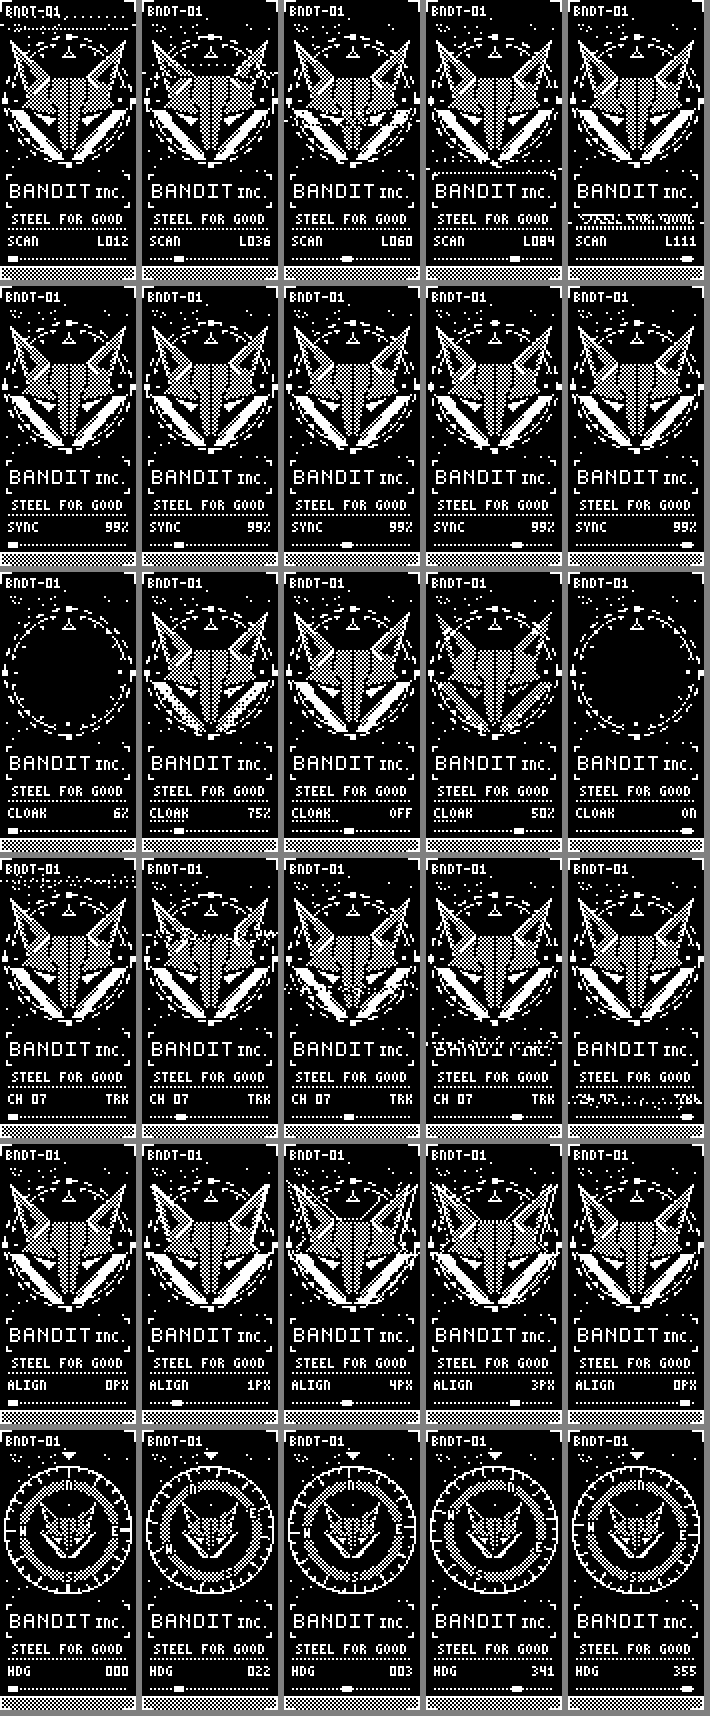
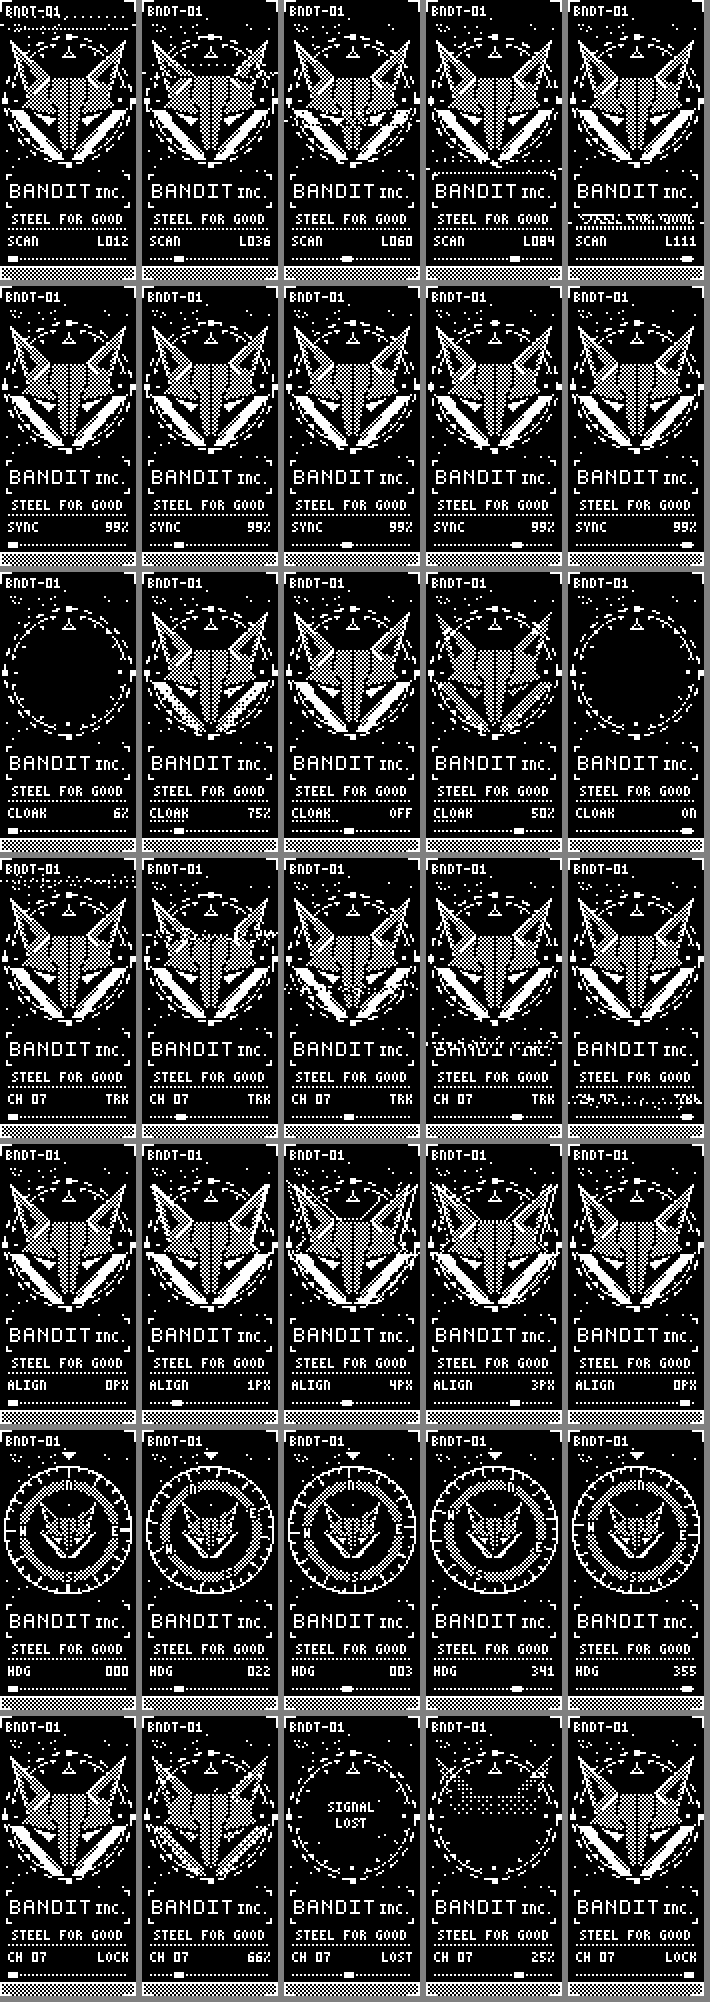
Art: Bandit_signal_v2, versioned Bandit generators, photosensitivity test
- Bandit_signal_v2 (bandit-signal-v2.bin, 64 frames at 4 fps, 9041 B) joins the
  Bandit Motion set. It tells signal's story (slip, fade behind static,
  SIGNAL LOST, SEARCHING, scan back in) with at most 3.0% of the screen changing
  per step. The original Bandit_signal is unchanged.
- tools/art-src/bandit/: bandit_art.py, motion/bandit_motion.py,
  motion/check.py and a README. Sources only; they reproduce the shipped blobs
  byte for byte (Pillow 13).
- scripts/test_bandit_art.py runs check.py on every shipped motion blob and on
  a fresh generator run (check.ps1's Python tests and the Script checks).
- Licensing rows and docs/art-bandit-motion.md updated.

diff --git a/scripts/test_bandit_art.py b/scripts/test_bandit_art.py
@@ -1,0 +1,75 @@
+"""The Bandit Motion set as it ships (app/resources/art/bandit-motion/): every blob passes the
+photosensitivity check of tools/art-src/bandit/motion/check.py and fits the push budget, and the
+generator in tools/art-src/bandit still runs and makes the same pieces."""
+
+import os
+import subprocess
+import sys
+import tempfile
+import unittest
+
+HERE = os.path.dirname(os.path.abspath(__file__))
+ROOT = os.path.dirname(HERE)
+MOTION = os.path.join(ROOT, "tools", "art-src", "bandit", "motion")
+BLOBS = os.path.join(ROOT, "app", "resources", "art", "bandit-motion")
+sys.path.insert(0, HERE)
+sys.path.insert(0, MOTION)
+import check  # noqa: E402
+import flipper_art as fa  # noqa: E402
+
+STRIDE = (fa.ART_W + 7) // 8
+
+
+def upright_frames(blob):
+    """The blob's frames in play order, upright (68 x 140) rows of booleans. Stored frames are
+    turned: upright (x, y) is stored row x, column 139 - y."""
+    unique = blob[8] | blob[9] << 8
+    count = blob[10] | blob[11] << 8
+    order = list(blob[12:12 + count])
+    at = 12 + count
+    offsets = [blob[at + 2 * i] | blob[at + 2 * i + 1] << 8 for i in range(unique)]
+    buf = bytearray(STRIDE * fa.ART_H)
+    frames = []
+    for i, start in enumerate(offsets):
+        end = offsets[i + 1] if i + 1 < len(offsets) else len(blob)
+        fa.unrle_xor(blob[start:end], buf)
+        frames.append([[bool(buf[x * STRIDE + (139 - y) // 8] & (0x80 >> ((139 - y) % 8)))
+                        for x in range(check.W)] for y in range(check.H)])
+    return [frames[i] for i in order]
+
+
+def blobs():
+    for name in sorted(os.listdir(BLOBS)):
+        with open(os.path.join(BLOBS, name), "rb") as f:
+            yield name, f.read()
+
+
+class ShippedMotionSet(unittest.TestCase):
+    def test_every_piece_passes_the_photosensitivity_check(self):
+        for name, blob in blobs():
+            with self.subTest(name):
+                self.assertEqual(blob[:4], b"NVA1")
+                self.assertTrue(blob[7] & fa.FLAG_INK)
+                worst, blocks = check.steps(upright_frames(blob))
+                self.assertTrue(check.passes(worst, blocks), "%s: %d px, %d blocks" % (name, worst, blocks))
+
+    def test_every_piece_fits_the_budget(self):
+        for name, blob in blobs():
+            self.assertLessEqual(len(blob), 12 * 1024, name)
+
+
+class Generator(unittest.TestCase):
+    def test_it_makes_every_shipped_piece(self):
+        with tempfile.TemporaryDirectory() as d:
+            subprocess.run([sys.executable, "-I", os.path.join(MOTION, "bandit_motion.py"), d],
+                           check=True)
+            made = {n.split("_", 1)[1].replace("_", "-") for n in os.listdir(d)}
+            shipped = {n[len("bandit-"):-len(".bin")] for n, _ in blobs()}
+            self.assertEqual(made, shipped)
+            for n in os.listdir(d):
+                seq, _ = check.frames(d, n)
+                self.assertTrue(check.passes(*check.steps(seq)), n)
+
+
+if __name__ == "__main__":
+    unittest.main()

diff --git a/app/src/foxglove/art_pieces.rs b/app/src/foxglove/art_pieces.rs
@@ -19,7 +19,7 @@ use super::art_words::{showing, Badge, Showing};
 
 /// Sets that ship with the app: the lighting presets' art (#273), the plugins' (#238, #259) and
 /// the Bandit Motion set (movement and distortion styles of the Bandit emblem, made by
-/// `art-src/bandit/motion/bandit_motion.py`). The flag marks plugin art.
+/// `tools/art-src/bandit/motion/bandit_motion.py`). The flag marks plugin art.
 pub const BUNDLED: &[(&str, &[u8], bool)] = &[
     (
         "fury.bin",
@@ -79,6 +79,11 @@ pub const BUNDLED: &[(&str, &[u8], bool)] = &[
     (
         "bandit-compass.bin",
         include_bytes!("../../resources/art/bandit-motion/bandit-compass.bin"),
+        false,
+    ),
+    (
+        "bandit-signal-v2.bin",
+        include_bytes!("../../resources/art/bandit-motion/bandit-signal-v2.bin"),
         false,
     ),
 ];

diff --git a/docs/art-licensing.md b/docs/art-licensing.md
@@ -25,12 +25,12 @@ Local sources live in `C:\Users\fuchs\splitkeeb\art-src` (not in any repo) unles
 | nice-view-elemental | `untrusted/kevinpastor_nice-view-elemental` | [kevinpastor/nice-view-elemental](https://github.com/kevinpastor/nice-view-elemental) | MIT | Kevin Pastor | OK to ship (not used) | Background images and fonts. Check the font licences before reusing those (the fonts are bundled from elsewhere). |
 | zmk-nice-oled: Pokémon art | `untrusted/mctechnology17_zmk-nice-oled` (`assets/pokemon*.c`) | [mctechnology17/zmk-nice-oled](https://github.com/mctechnology17/zmk-nice-oled) | Repo MIT, but the characters are Nintendo / Game Freak IP | n/a | **DO NOT SHIP** | A repo's MIT licence can't license someone else's trademarked characters. |
 | zmk-nice-oled: other art (spaceman, samurai, head, crystal, luna) | same | same | MIT (repo); origin of each image not stated | mctechnology17 | **UNCLEAR** (not used) | Each piece's origin would need checking. The "crystal" looks like nice-view-gem's. Luna is the QMK "Luna" pet, whose origin is also unstated. |
-| Bandit fox motif and the Bandit HUD library | `art-src/bandit`; `BanditF/bandit-wallpapers` `library/bandit` | the repo owner | © the owner, all rights reserved | the owner | **OK to ship** (owner's; Bandit_Emblem is the one firmware built-in since #671, the 13 scenes were built-ins from 2026-10-23 until then) | See F5. |
+| Bandit fox motif and the Bandit HUD library | `art-src/bandit` (generators versioned in `tools/art-src/bandit/`); `BanditF/bandit-wallpapers` `library/bandit` | the repo owner | © the owner, all rights reserved | the owner | **OK to ship** (owner's; Bandit_Emblem is the one firmware built-in since #671, the 13 scenes were built-ins from 2026-10-23 until then) | See F5. |
 | FURY linocut prints | `BanditF/bandit-wallpapers` `input_media/FURY prints` (private repo) | the repo owner | © the owner, all rights reserved | the owner | **OK to ship** (owner's) | Traced vector and keyboard derivatives live in the private wallpaper repo. See flag F5. |
 | Wallpaper keyboard art (12 sets) | `BanditF/bandit-wallpapers` → `dist/keyboard/<name>/right.bin` | generated from the two sources above | owner's own work | the owner | **OK to ship** (owner's) | Mostly the owner's art, plus procedural scenes made in this project. |
 | Plugin icons and the Plugins-tab empty state | `app/resources/plugins/` (generator `scripts/plugin_icons.py`) | drawn in this project from the Bandit fox motif | © the owner, all rights reserved | the owner | **OK to ship** (owner's) | Generic glyphs, no vendor logos: see [plugin-icons.md](plugin-icons.md) and F5. |
 | Plugin screen assets (Pomodoro, mic-mute, Broadcast Status panels; Bandit_Focus and Bandit_OnAir right art) | `assets/plugins/` (generator `scripts/plugin_panels.py`; right art from `art-src/bandit`) | drawn in this project in the Bandit style | © the owner, all rights reserved | the owner | **OK to ship** (owner's) | Not covered by the plugin crates' MIT licence: see [plugin-screens.md](plugin-screens.md) and F5. |
-| Bandit Motion set (Scanline, Glitch, Cloak, Drift, Ghost, Compass right art) | `app/resources/art/bandit-motion/` (generator `art-src/bandit/motion/bandit_motion.py`, not in this repo) | the owner's Bandit fox motif, animated in this project | © the owner, all rights reserved | the owner | **OK to ship** (owner's) | See [art-bandit-motion.md](art-bandit-motion.md) and F5. |
+| Bandit Motion set (Scanline, Glitch, Cloak, Drift, Ghost, Compass, Signal v2 right art) | `app/resources/art/bandit-motion/` (generator `tools/art-src/bandit/motion/bandit_motion.py`) | the owner's Bandit fox motif, animated in this project | © the owner, all rights reserved | the owner | **OK to ship** (owner's) | See [art-bandit-motion.md](art-bandit-motion.md) and F5. |
 | Lighting preset art (Fury, Constellations, Hearth, Moon Garden sets) | `app/resources/lighting/art/` (copied by `scripts/lighting_presets.py` from bandit-wallpapers' keyboard builds) | the owner's FURY and Hearth wallpaper art | © the owner, all rights reserved | the owner | **OK to ship** (owner's) | See [lighting-presets.md](lighting-presets.md) and F5. |
 
 ## Flags

diff --git a/docs/art-bandit-motion.md b/docs/art-bandit-motion.md
@@ -1,11 +1,11 @@
 # Bandit Motion: right-screen art set
 
-Six bundled right-screen pieces that add movement and distortion styles to the Bandit emblem
+Seven bundled right-screen pieces that add movement and distortion styles to the Bandit emblem
 (the fox in the HUD ring, "BANDIT INC.", "STEEL FOR GOOD"). They extend the library. Nothing
 existing changes: `Bandit_Emblem` stays the firmware's one built-in, and the first Bandit scenes
-stay as they are. The pieces ship in `app/resources/art/bandit-motion/` and appear on the
-Screens page as bundled sets (`art_pieces::BUNDLED`). They are pushed or kept like any library
-piece.
+(`Bandit_signal` included) stay as they are. The pieces ship in
+`app/resources/art/bandit-motion/` and appear on the Screens page as bundled sets
+(`art_pieces::BUNDLED`). They are pushed or kept like any library piece.
 
 ![Five sampled frames of each piece](images/bandit-motion-overview.png)
 
@@ -17,13 +17,20 @@ piece.
 | `bandit-drift.bin` | a 7-row band of weak signal drifts down: rows lean 2 px, with sparse static and a dotted carrier line | 38 | 4 | 9.7 KiB |
 | `bandit-ghost.bin` | "chromatic" misregistration in 1-bit: a solid and a dotted outline ghost of the fox slide up to 4 px apart and back | 24 | 4 | 4.1 KiB |
 | `bandit-compass.bin` | a compass bezel with N/E/S/W and degree ticks swings around a smaller fox; HDG readout | 32 | 4 | 11.1 KiB |
+| `bandit-signal-v2.bin` | `Bandit_signal`'s story without its hard cuts: the link slips, the fox fades out behind drifting static, SIGNAL LOST, SEARCHING with climbing bars, then the fox scans back in | 64 | 4 | 8.8 KiB |
+
+`Bandit_signal_v2` sits in this set rather than with the original. It is built from this set's
+fade, scan-in and static helpers. The first library's generator also stays frozen, so its
+scenes keep coming out unchanged. The original (`Bandit_signal`) changes 28.8% of the screen
+in one step and blinks a framed text box; v2 peaks at 3.0%.
 
 ## Rules they follow
 
 - **Photosensitivity:** no flashing and no inversions. Between any two frames (the loop's wrap
   included), at most 3.5% of the screen changes and no 8x8 block flips by half. Row shifts are
-  even, so the 50% checker never swaps phase. Large changes (cloak) happen gradually, over 4 s.
-  `art-src/bandit/motion/check.py` measures this.
+  even, so the 50% checker never swaps phase. Large changes (cloak, signal v2) happen gradually,
+  over 4 s. `tools/art-src/bandit/motion/check.py` measures this, and `scripts/test_bandit_art.py`
+  runs it on the shipped blobs in check.ps1 and the Script checks.
 - **Size:** each set stays under 12 KiB, inside the 16 KiB push limit
   (`CONFIG_NICE_VIEW_ART_RELAY_MAX_SIZE`). `bundled_sets_fit_the_push_budget` checks every
   bundled set.
@@ -32,15 +39,5 @@ piece.
 
 ## Rebuilding
 
-The generator lives with the owner's art sources, not in this repo:
-
-```
-cd art-src/bandit/motion
-python -I bandit_motion.py out
-python -I check.py out
-cd <foxglove>
-python -I scripts/flipper_art.py app/resources/art/bandit-motion/bandit-NAME.bin ^
-  ../art-src/bandit/motion/out/Bandit_NAME:polarity=as-is:label=Bandit NAME
-```
-
-The frames are saved lit = black (as in the first library), so `polarity=as-is` is right.
+The generator is versioned in `tools/art-src/bandit/`. Its README has the commands. The
+committed blobs come out byte for byte from it (Pillow 13).

diff --git a/LICENSING.md b/LICENSING.md
@@ -12,7 +12,7 @@ Where a file has an `SPDX-License-Identifier` header, that header decides.
 | `config/eyelash_corne.conf` | MIT | SPDX header |
 | Right-hand art in `widgets/custom_art.c` (one built-in, the owner's Bandit emblem), and pushed `.bin` sets | per artist | See [ART_CREDITS.md](boards/shields/nice_view_custom/ART_CREDITS.md) and [docs/art-licensing.md](docs/art-licensing.md). Some pushed sets rest on the artist's consent rather than a license, so check before reusing them |
 | `app/resources/lighting/art/` (lighting preset art) | © the repo owner, all rights reserved | The owner's FURY and Hearth art; see [docs/lighting-presets.md](docs/lighting-presets.md) |
-| `app/resources/art/bandit-motion/` (Bandit Motion right-screen set) | © the repo owner, all rights reserved | The owner's Bandit fox emblem in six animated styles; see [docs/art-bandit-motion.md](docs/art-bandit-motion.md) |
+| `app/resources/art/bandit-motion/` (Bandit Motion right-screen set) and `tools/art-src/bandit/` (the Bandit art generators) | © the repo owner, all rights reserved | The owner's Bandit fox emblem in seven animated styles, and the generators that draw the Bandit art; see [docs/art-bandit-motion.md](docs/art-bandit-motion.md) |
 | `assets/plugins/` (plugin screen art) | © the repo owner, all rights reserved | The owner's Bandit art; see [docs/plugin-screens.md](docs/plugin-screens.md) |
 | `app/resources/plugins/` (plugin icons, empty-state art) | © the repo owner, all rights reserved | The owner's Bandit art, like the right-hand Bandit scenes; see [docs/plugin-icons.md](docs/plugin-icons.md) |
 | `app/` | GPL-3.0-only, [app/LICENSE](app/LICENSE) | The Foxglove app: [KeyPeek](https://github.com/srwi/keypeek) by Stephan Rumswinkel, absorbed with its history (via BanditF/keypeek) and renamed. Our changes to it are GPL-3.0 too |
